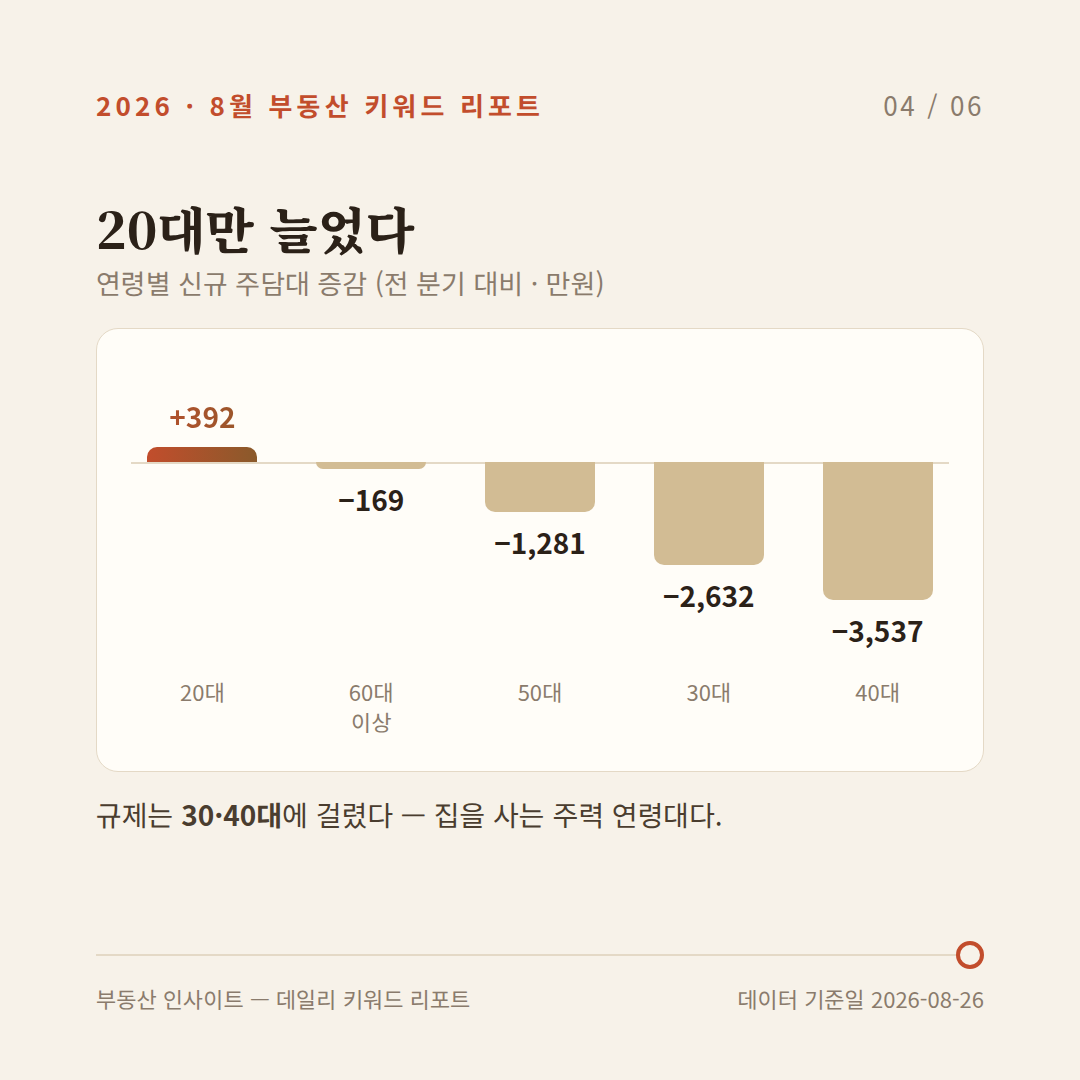
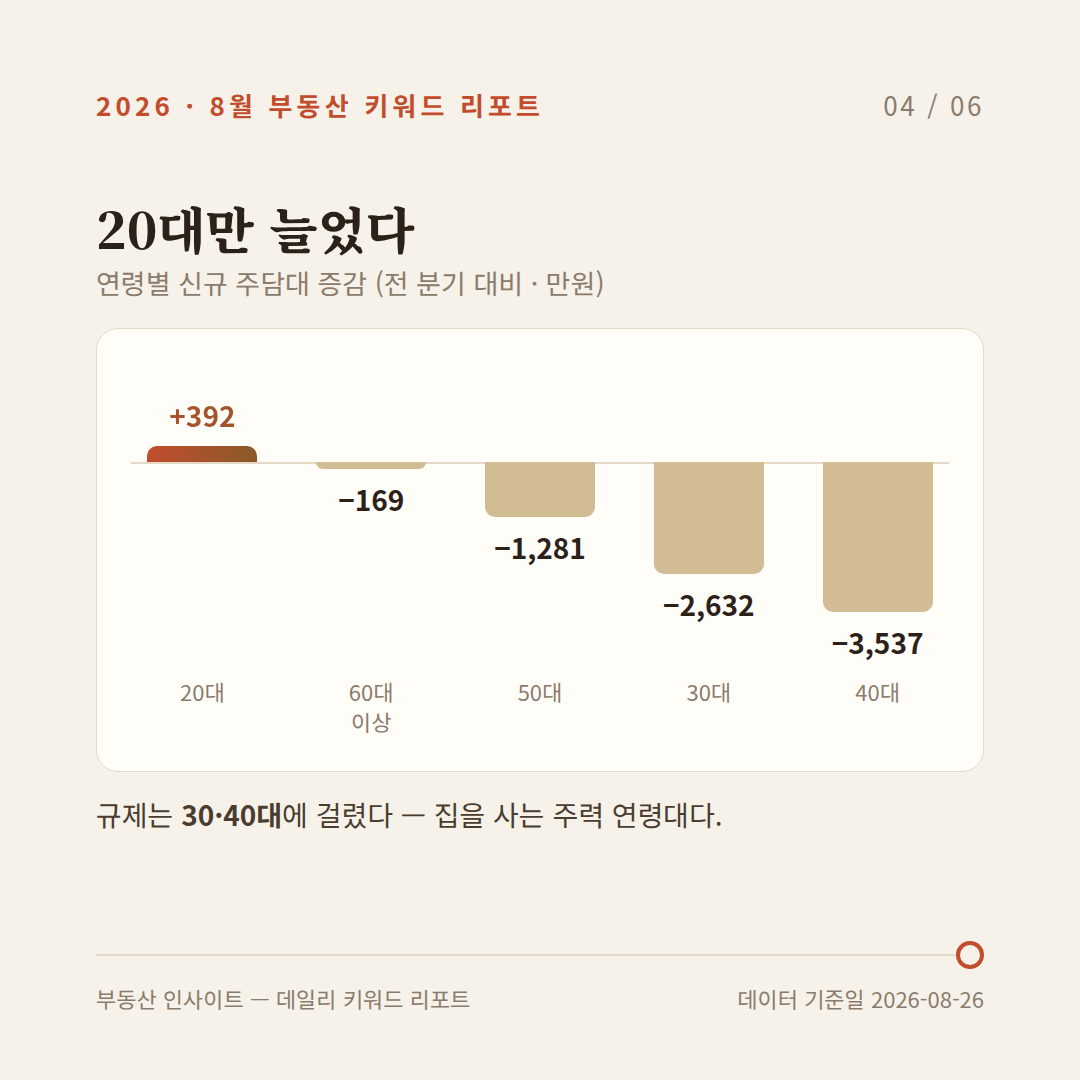
Tune report #39 zcols chart scale (baseline 32%, full-range bars)
Claude-Session: https://claude.ai/code/session_014FPhCKpii9mVmDWMzN6gma

diff --git a/posts/2026-08-26-isipdae.html b/posts/2026-08-26-isipdae.html
@@ -300,11 +300,11 @@ footer a{color:var(--teal)}
     <h3>연령별 신규 주담대 증감 (2분기, 전 분기 대비 · 만원)</h3>
     <span class="badge">20대만 플러스</span>
     <div class="zcols">
-      <div class="zcol"><div class="zv up" style="--h:4%">+392</div><div class="zbar up hi" style="--h:4%"></div></div>
-      <div class="zcol"><div class="zv dn" style="--h:1.7%">−169</div><div class="zbar dn lo" style="--h:1.7%"></div></div>
-      <div class="zcol"><div class="zv dn" style="--h:13%">−1,281</div><div class="zbar dn lo" style="--h:13%"></div></div>
-      <div class="zcol"><div class="zv dn" style="--h:26.8%">−2,632</div><div class="zbar dn lo" style="--h:26.8%"></div></div>
-      <div class="zcol"><div class="zv dn" style="--h:36%">−3,537</div><div class="zbar dn lo" style="--h:36%"></div></div>
+      <div class="zcol"><div class="zv up" style="--h:5.5%">+392</div><div class="zbar up hi" style="--h:5.5%"></div></div>
+      <div class="zcol"><div class="zv dn" style="--h:2.4%">−169</div><div class="zbar dn lo" style="--h:2.4%"></div></div>
+      <div class="zcol"><div class="zv dn" style="--h:18.1%">−1,281</div><div class="zbar dn lo" style="--h:18.1%"></div></div>
+      <div class="zcol"><div class="zv dn" style="--h:37.2%">−2,632</div><div class="zbar dn lo" style="--h:37.2%"></div></div>
+      <div class="zcol"><div class="zv dn" style="--h:50%">−3,537</div><div class="zbar dn lo" style="--h:50%"></div></div>
     </div>
     <div class="collbl"><span>20대</span><span>60대 이상</span><span>50대</span><span>30대</span><span>40대</span></div>
     <p class="cap">모두 같은 항목(신규 취급액)의 전 분기 대비 증감액이라 한 축에 놓았습니다. 감소폭이 큰 순으로 정렬했습니다.</p>
